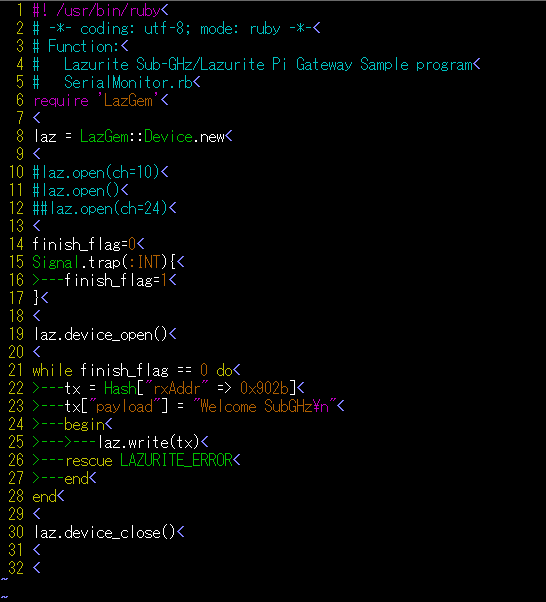
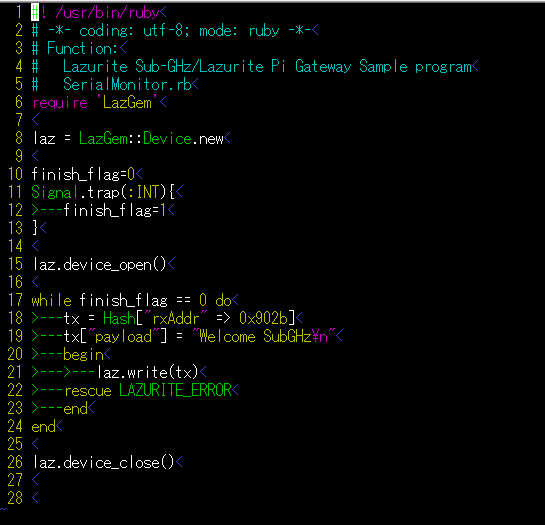
LazGemのドキュメントを更新しました。

Changed region(s): [[0.0, 0.0, 1.0, 0.9752]]

diff --git a/contents/gateway/Ruby/LazGem.html b/contents/gateway/Ruby/LazGem.html
@@ -107,7 +107,7 @@ git clone git://github.com/LAPIS-Lazurite/LazGem⏎</p>
 <p class="auto-style23">送信用サンプルプログラム&nbsp;&nbsp;&nbsp;&nbsp;&nbsp;&nbsp;&nbsp; 
 sample_tx.rb<br />
 受信用サンプルプログラム&nbsp;&nbsp;&nbsp;&nbsp;&nbsp;&nbsp;&nbsp; sample_rx.rb</p>
-<p class="auto-style23">送信用サンプルプログラムは正しい送信先に合わせてプログラムの22行目を変更してください。</p>
+<p class="auto-style23">送信用サンプルプログラムは正しい送信先に合わせてプログラムの18行目のrxAddr(受信アドレス)を変更してください。</p>
 <p class="auto-style23">
 <img alt="" height="602" src="sample_tx_rb.png" width="546" /></p>
 <p class="auto-style23">&nbsp;</p>
